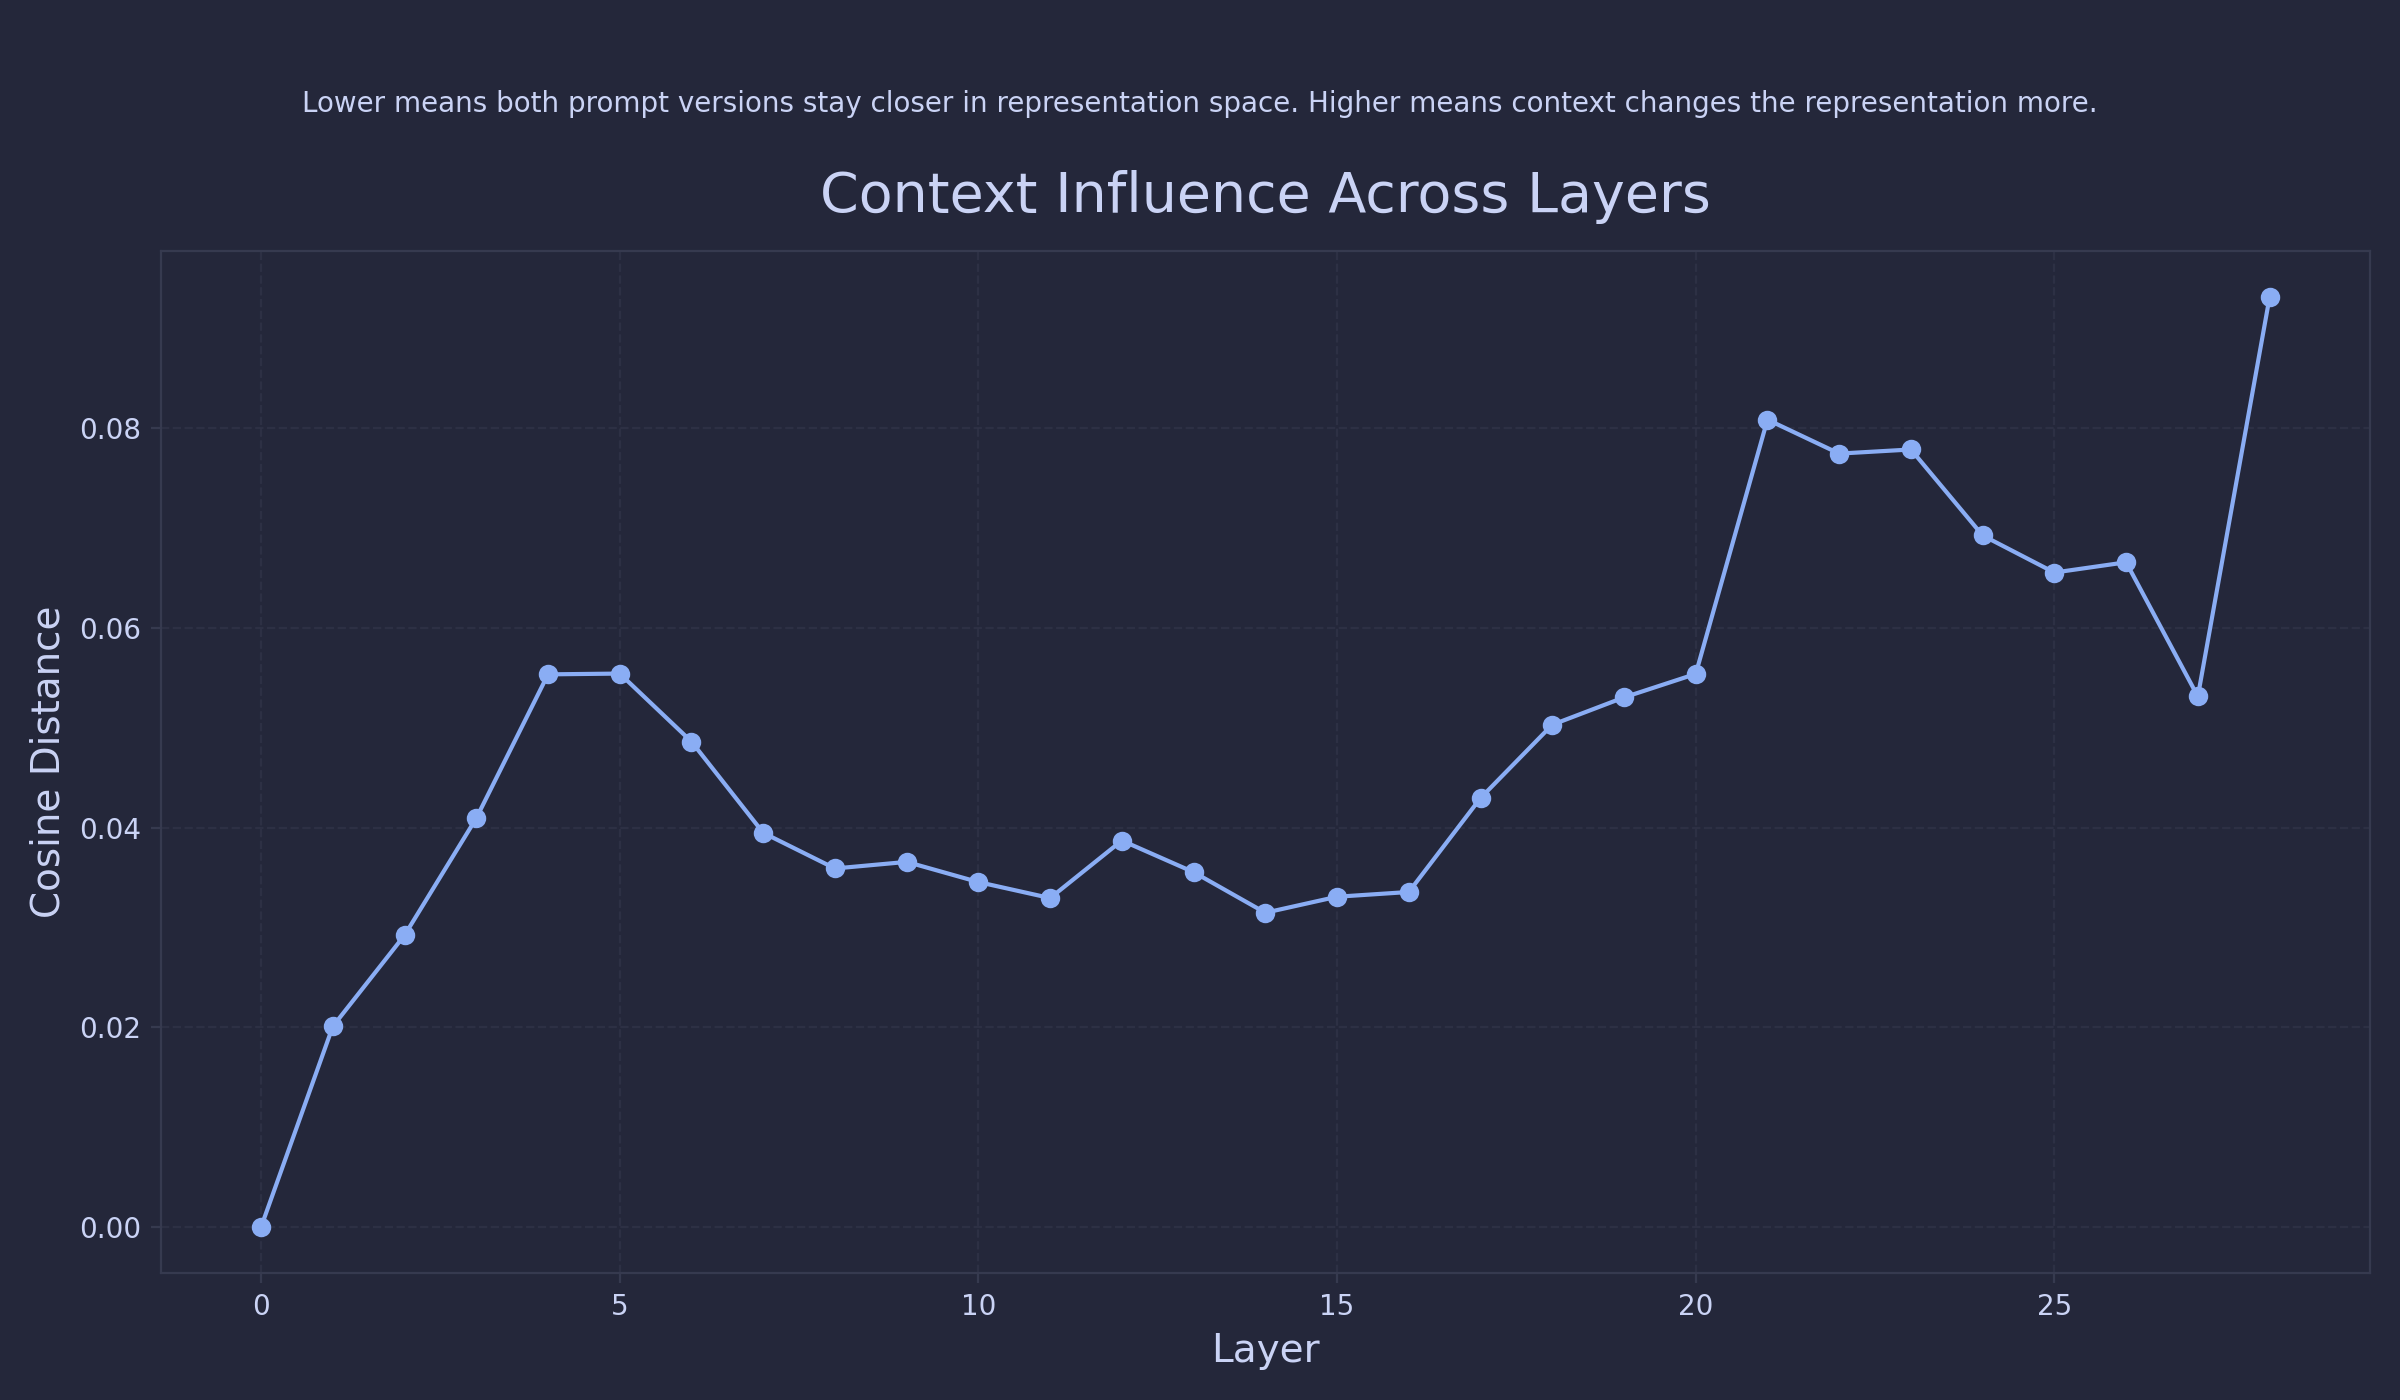
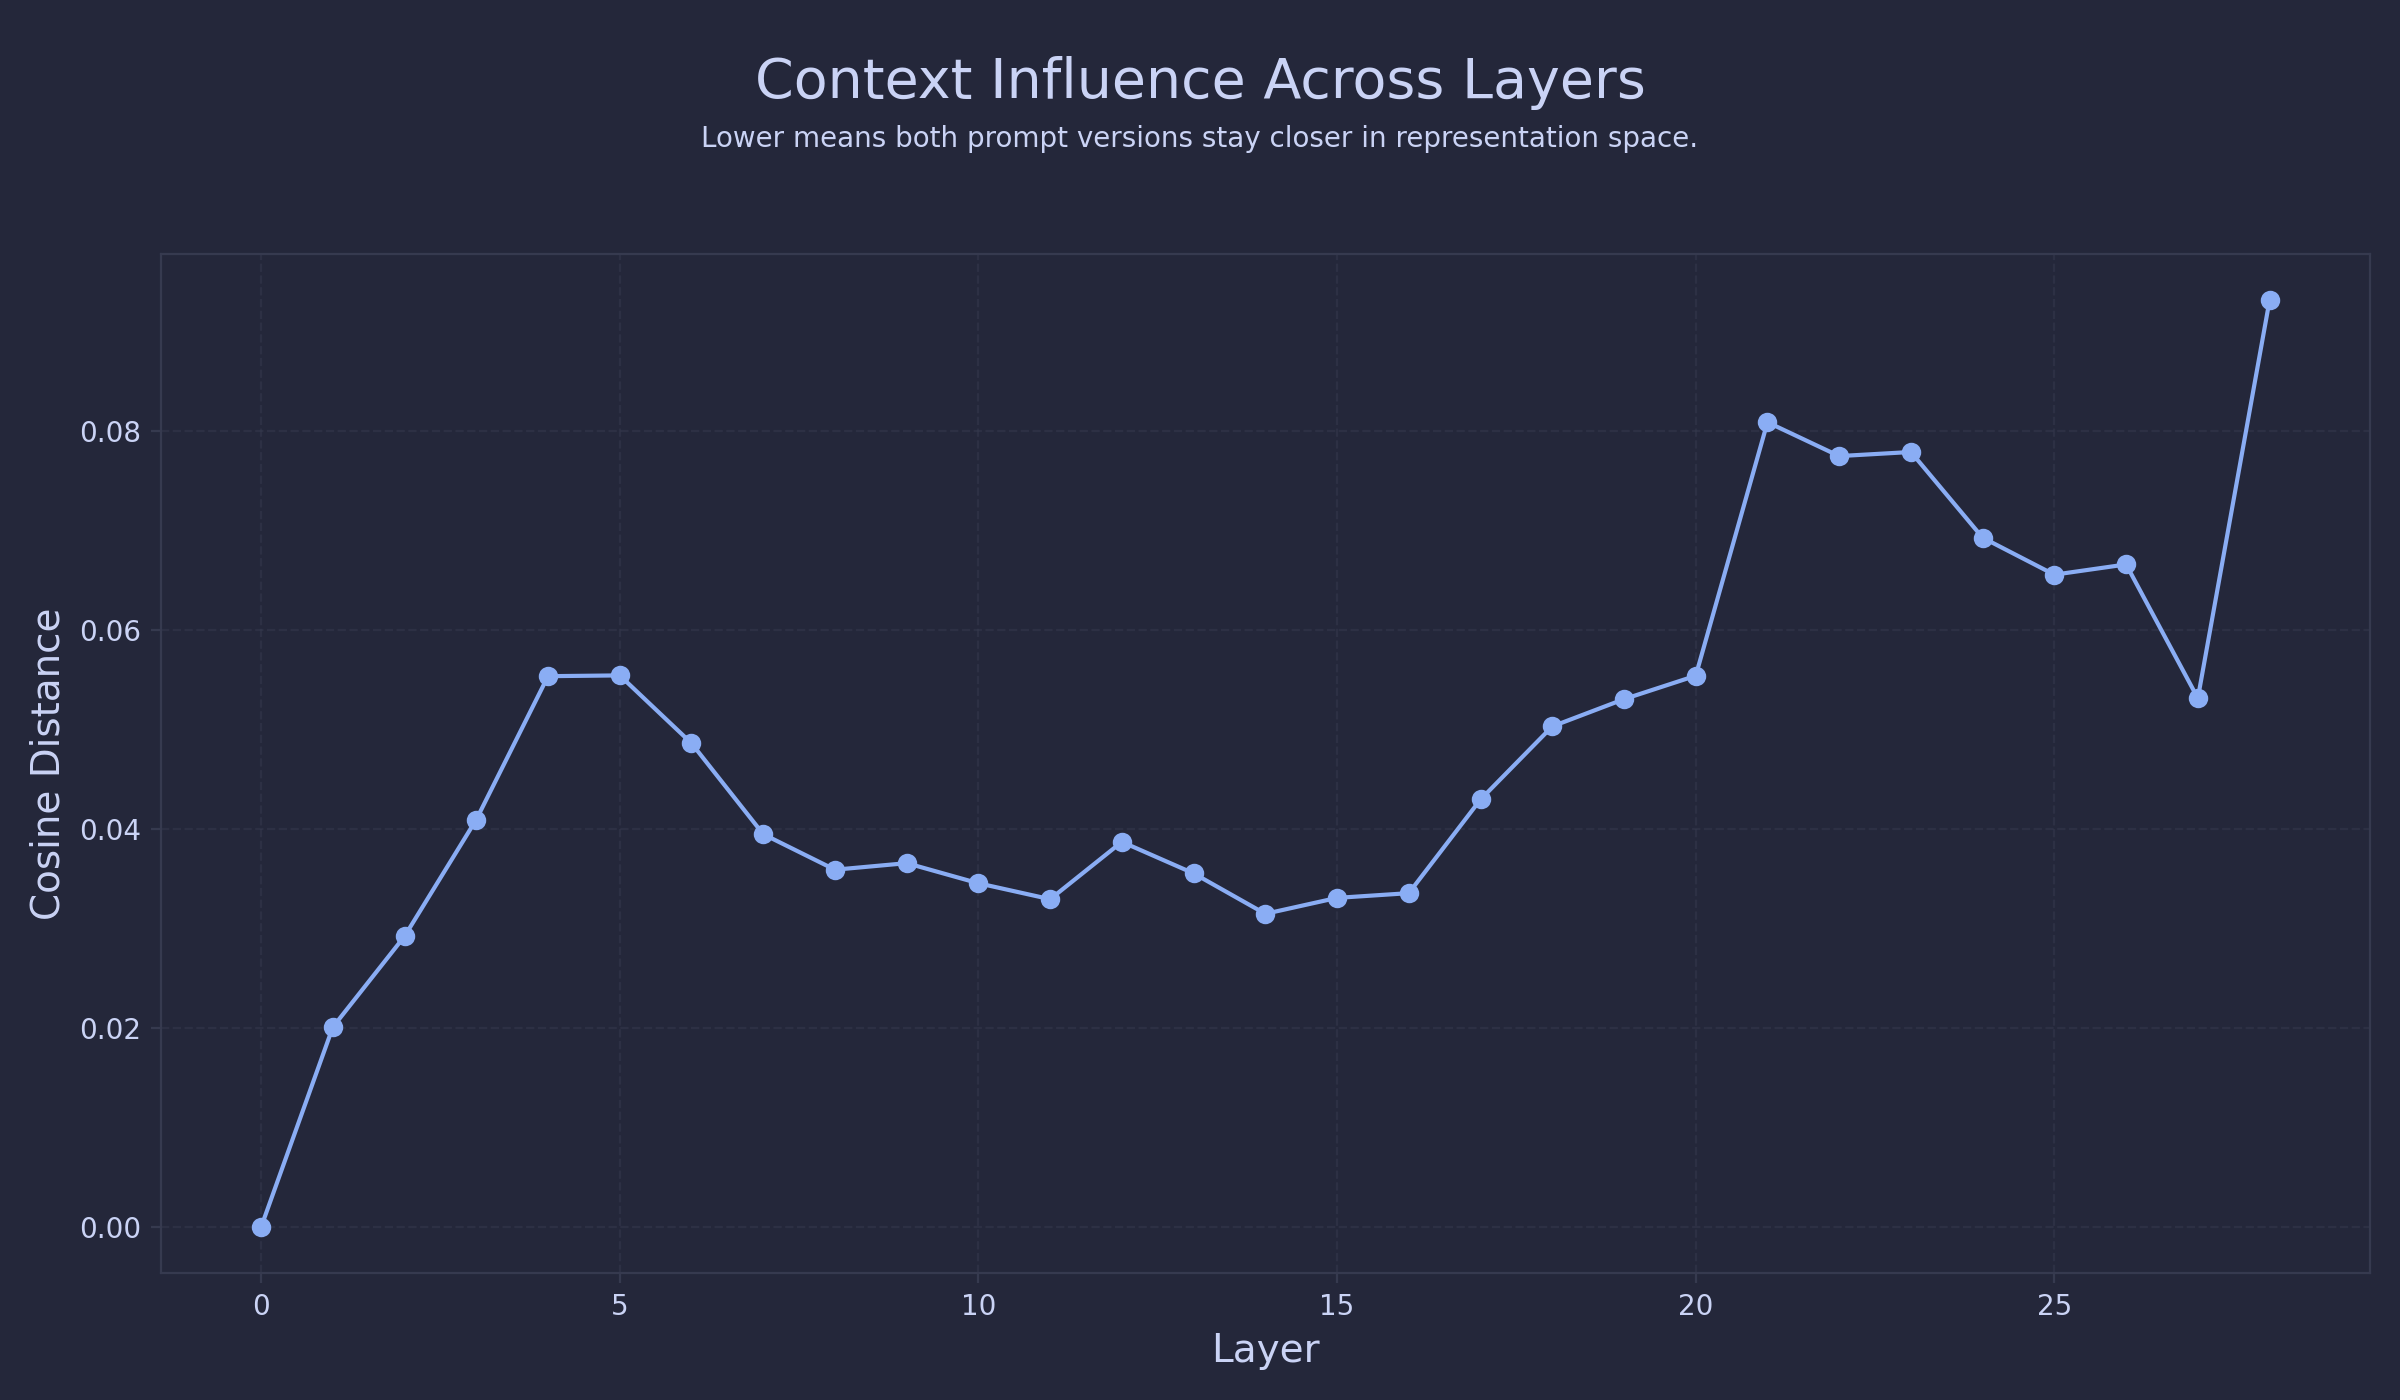
chore: (context_influence) update plots

diff --git a/context_influence/plot.py b/context_influence/plot.py
@@ -61,32 +61,42 @@ def build_legend(get_color):
 
     return elements
 
-
 def plot_distance(distances, method, dim, out_dir):
     fig, ax = plt.subplots(figsize=(12, 7))
 
     ax.plot(
-        range(len(distances)), distances, marker="o", label="Cosine Distance"
+        range(len(distances)),
+        distances,
+        marker="o",
+        label="Cosine Distance",
     )
 
-    ax.set_title("Context Influence Across Layers", fontsize=20, pad=14)
     ax.set_xlabel("Layer", fontsize=14)
     ax.set_ylabel("Cosine Distance", fontsize=14)
 
     ax.grid(True, linestyle="--", linewidth=0.8, alpha=0.5)
 
+    # Title
     fig.text(
         0.5,
-        0.92,
-        "Lower means both prompt versions stay closer in representation space. Higher means context changes the representation more.",
+        0.93,
+        "Context Influence Across Layers",
+        ha="center",
+        fontsize=20,
+    )
+
+    # Subtitle
+    fig.text(
+        0.5,
+        0.895,
+        "Lower means both prompt versions stay closer in representation space.",
         ha="center",
         fontsize=10,
     )
 
-    plt.tight_layout(rect=[0, 0, 1, 0.90])
+    plt.tight_layout(rect=[0, 0, 1, 0.84])
     plt.savefig(out_dir / f"{method}_{dim}d_distance.png", dpi=200)
     plt.close()
-
 
 def plot_multi_embedding(layers, out_dir, get_color):
     num_layers = len(layers)

diff --git a/context_influence/README.md b/context_influence/README.md
@@ -13,6 +13,8 @@ Additionally, **PCA and UMAP are used to project these representations into 2D/3
 #### 1. Install dependencies
 
 ```bash
+cd `context_influence`
+
 uv add torch transformers accelerate bitsandbytes datasets matplotlib catppuccin umap-learn scikit-learn
 ```
 
